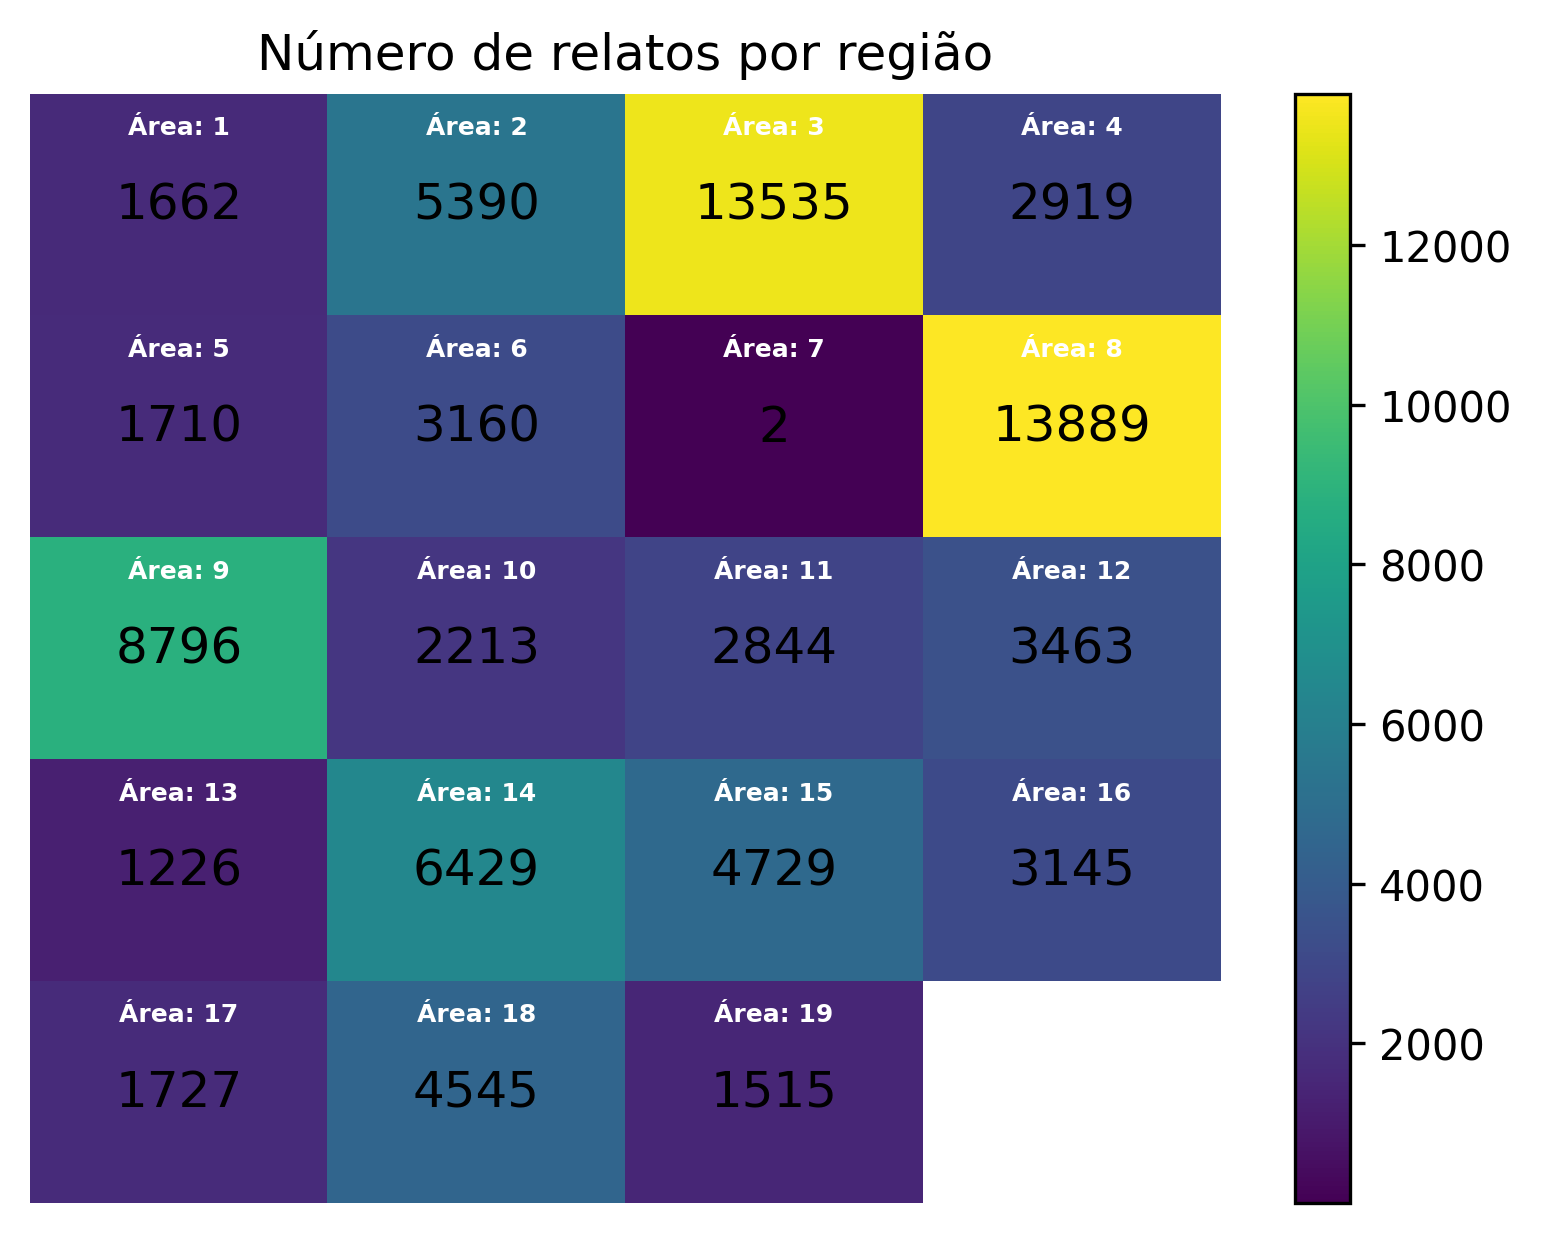
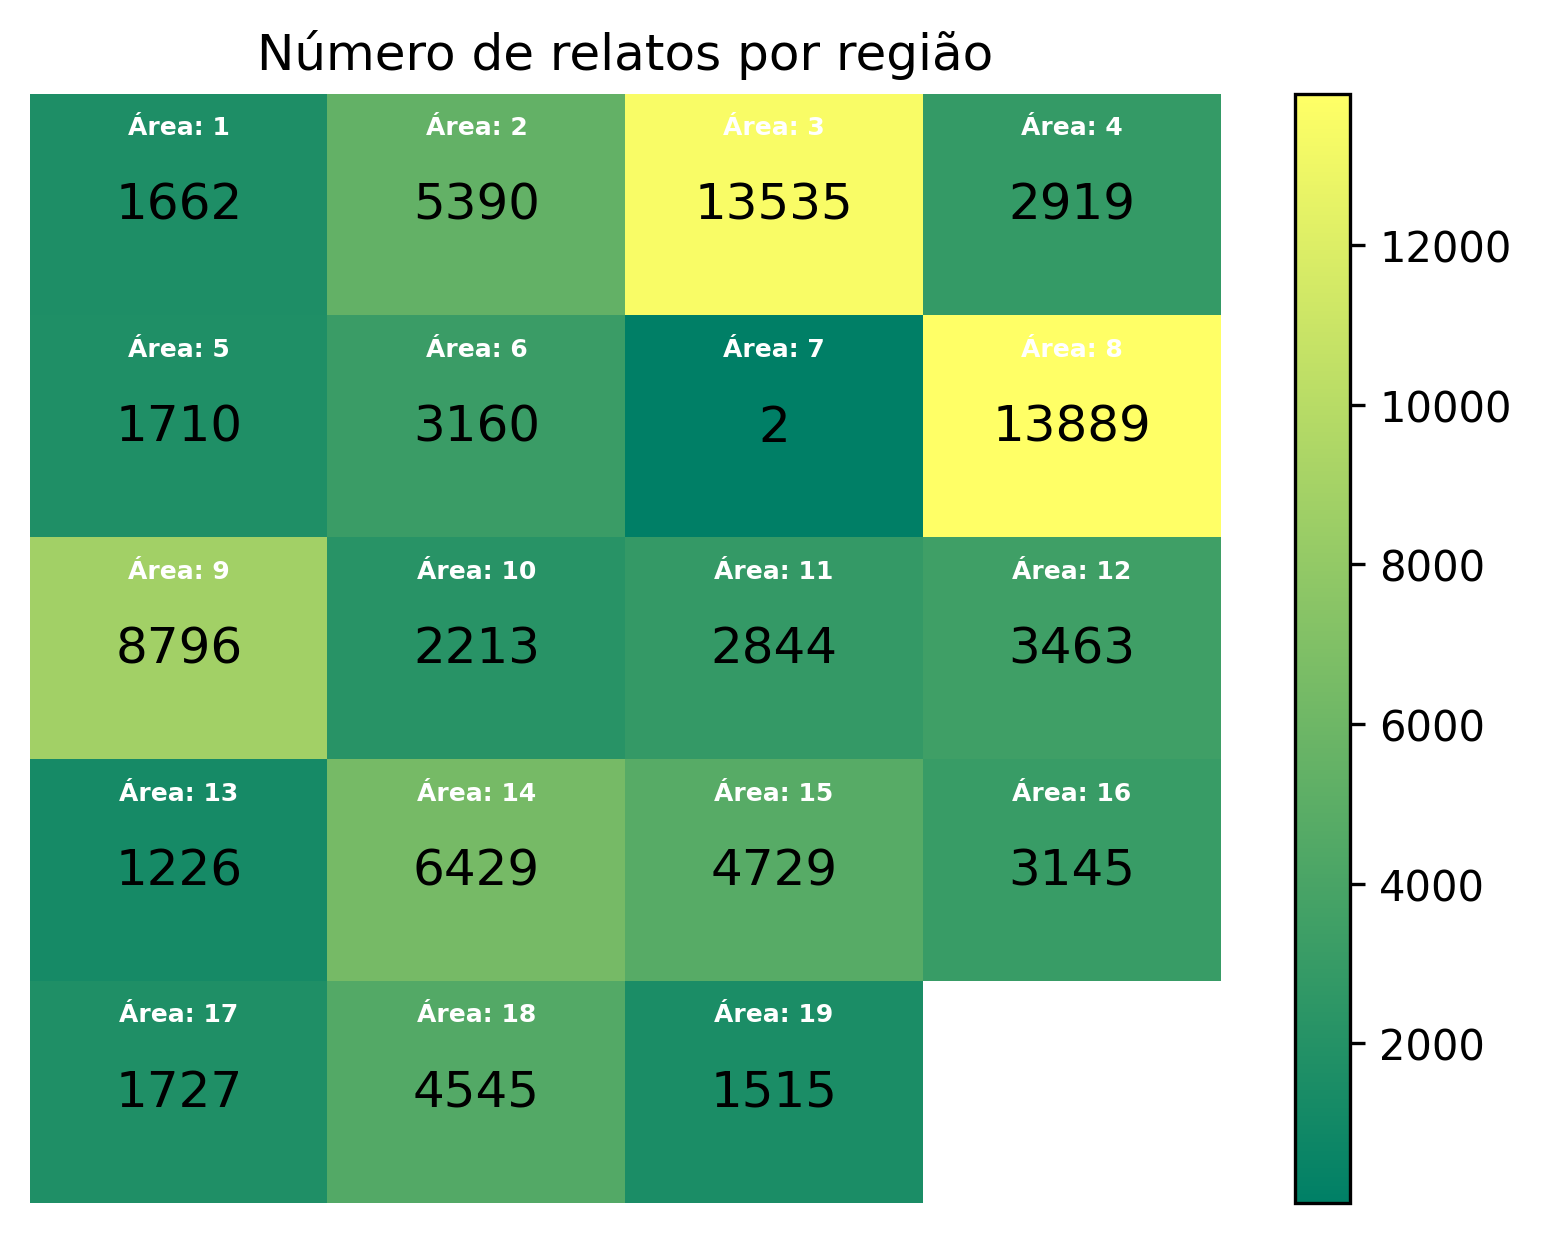
Alteração cor dos gráficos

diff --git a/first_problem/heatmap_question2.py b/first_problem/heatmap_question2.py
@@ -86,7 +86,7 @@ if __name__ == '__main__':
         print(f"Location {loc}: {val}")
     print()
 
-    plt.imshow(count_matrix, aspect='auto', cmap='viridis')
+    plt.imshow(count_matrix, aspect='auto', cmap='summer')
     plt.title("Número de relatos por região")
     plt.colorbar()
     plt.axis('off')
@@ -107,7 +107,7 @@ if __name__ == '__main__':
         print(f"Location {loc}: {val}")
     print()
 
-    plt.imshow(medical_count_matrix, aspect='auto', cmap='viridis')
+    plt.imshow(medical_count_matrix, aspect='auto', cmap='summer')
     plt.title("Número de relatos - categoria Medical")
     plt.colorbar()
     plt.axis('off')
